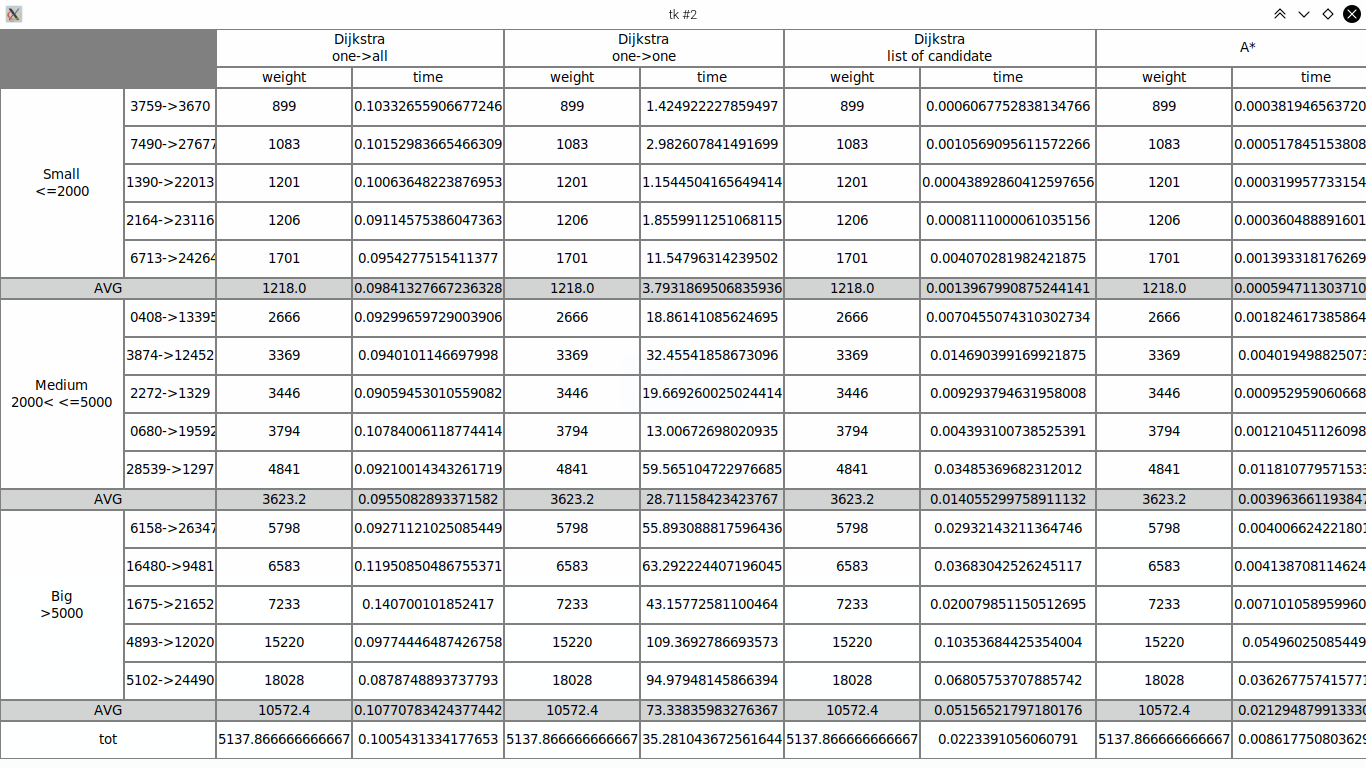
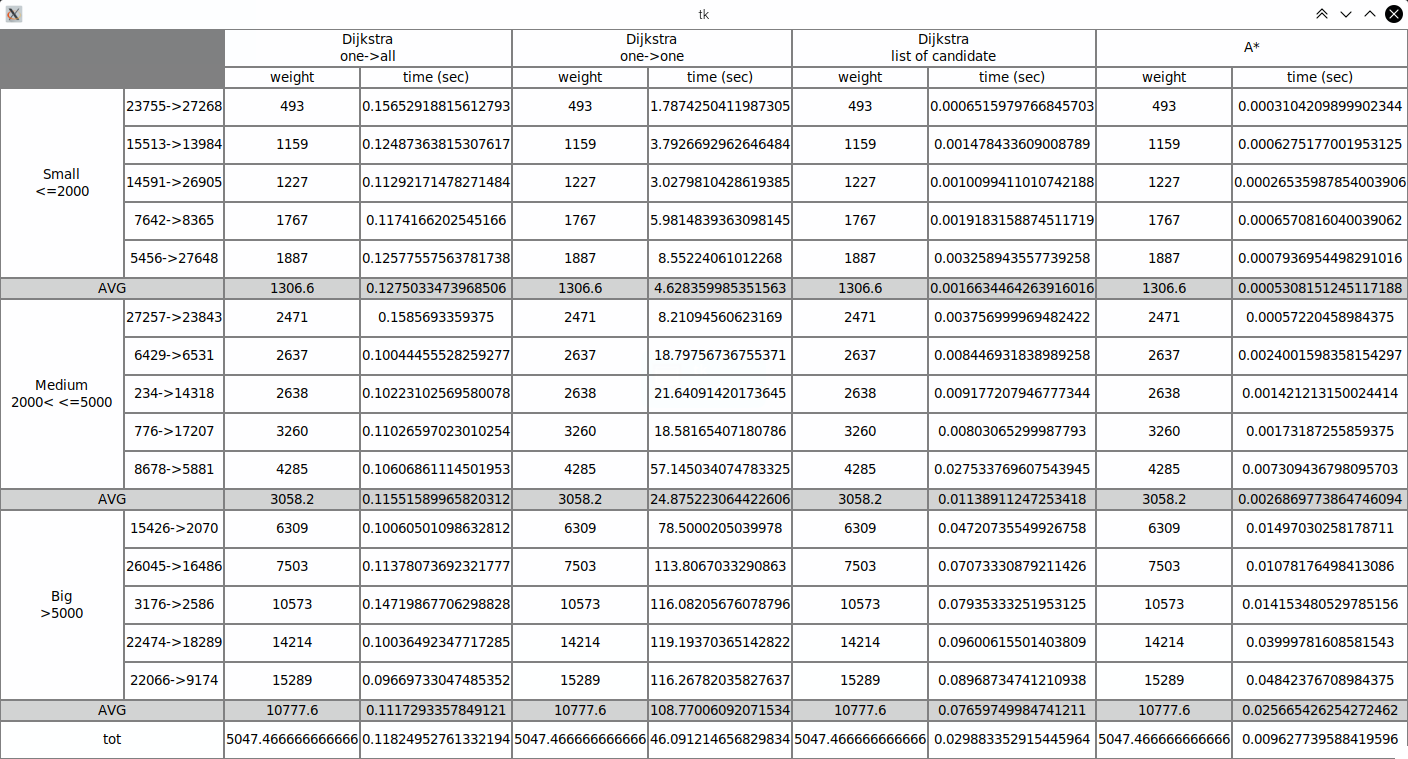
Debuggin and labelSettingAlgorithm impl

diff --git a/testing.py b/testing.py
@@ -34,7 +34,7 @@ debugger(graph[8620], 0)
 #default = 2000->2689
 #anomaly [14729, 14740] and [20023, 20050] and [17510, 17537] and so on
 source = graph[2000]
-target = graph[14729]
+target = graph[2229]
 
 
 """++++++++++++++++++++++++++++++++++++++++++++++++
@@ -44,7 +44,7 @@ print("*"*40, "ONE TO ALL", "*"*40)
 initSingleNode(graph, source)
 
 start = time.time()
-dijkstraOneToAll(graph, source)
+dijkstraOneToAll(source)
 end = time.time()
 
 print("time:", end-start)
@@ -70,27 +70,23 @@ print(*dbgList, sep="->")
 print("*"*40, "ONE TO ONE", "*"*40)
 initSingleNode(graph, source)
 
-print(target.visited)
-
 start = time.time()
-dijkstraOneToOne(graph, source, target)
+# dijkstraOneToOne(graph, source, target)
 end = time.time()
 
-print(target.visited)
+# print("time:", end-start)
+# print("from",source.index, "to", target.index, "the weight of the path is:", target.minWeight)
 
-print("time:", end-start)
-print("from",source.index, "to", target.index, "the weight of the path is:", target.minWeight)
-
-dbgList = []
-graphList = []
-pointer = target
-while pointer != source :
-    dbgList.append(pointer.index)
-    graphList.append(pointer)
-    pointer = pointer.predecessor
-dbgList.append(target.index)
-dbgList = reversed(dbgList)
-print(*dbgList, sep="->")
+# dbgList = []
+# graphList = []
+# pointer = target
+# while pointer != source :
+#     dbgList.append(pointer.index)
+#     graphList.append(pointer)
+#     pointer = pointer.predecessor
+# dbgList.append(target.index)
+# dbgList = reversed(dbgList)
+# print(*dbgList, sep="->")
 
 
 
@@ -104,7 +100,7 @@ tmp_list= []
 
 for n in range (0, 1):
     start = time.time()
-    dijkstraListOfCandidate(graph, source, target)
+    dijkstraListOfCandidate(source, target)
     end = time.time()
     tmp_list.append(end-start)
 print("AVGtime:", sum(tmp_list) / len(tmp_list))
@@ -138,7 +134,7 @@ tmp_list = []
 
 for n in range (0, 1):
     start = time.time()
-    a_star(graph, source, target)
+    a_star(source, target)
     end = time.time()
     tmp_list.append(end-start)
 print("AVGtime:", sum(tmp_list) / len(tmp_list))
@@ -169,18 +165,6 @@ from bicriteriaDijkstra import dijkstraBiCrit
 
 print("*"*40, "BICRITERIA DIJKSTRA", "*"*40)
 
-# WORKING SOLUTION
-# tmp_list= []
-# alpha = 0
-# while alpha <= 1 :
-#     initSingleNode(graph, source)
-#     start = time.time()
-#     dijkstraBiCrit(graph, source, target, alpha)
-#     end = time.time()
-#     tmp_list.append(end-start)
-#     print("from {0.index} to {1.index} the distance is {1.distance} and the danger is {1.danger} -- \u03B1 = {2}".format(source, target, alpha))
-#     alpha = round((alpha+0.05), 2)
-# print("AVGtime:", sum(tmp_list) / len(tmp_list))
 
 
 #MOST ACCURATE TESTING SOLUTION
@@ -188,6 +172,7 @@ print("*"*40, "BICRITERIA DIJKSTRA", "*"*40)
 Any time is found a different path (distance or danger), the value of α is halve
 else the value of α increase by an "increaseVal"
 """
+#TODO: make it a binary research: so try α = 0, then α = 1, then α = 0.5, if 0.5 is != from α = 0, try also α = 0.25 and so on and so on
 listDistDang = []
 tmp_list = []
 counter = 0
@@ -197,7 +182,7 @@ increaseVal = 0.02
 while alpha <=1 :
     initSingleNode(graph, source)
     start = time.time()
-    dijkstraBiCrit(graph, source, target, alpha)
+    dijkstraBiCrit(source, target, alpha)
     end = time.time()
     tmp_list.append(end-start)
 

diff --git a/labelSettingAlgorithm.py b/labelSettingAlgorithm.py
@@ -1,0 +1,67 @@
+from PriorityQueue import PriorityQueue
+
+def labelSettingAlgorithm(source, target) :
+    """
+    label = (dist, danger, owner, predecessor)
+              [0]    [1]    [2]       [3]
+    Step 0 :
+        create first label (0, 0, source, null)
+        and put it in the labelSet (a priorityQueue)
+    Step 1 :
+        if labelSet.empty() -> step 4
+        else select the label w/ the less distance and calc the label of the neighbors
+        NO -> (if the current label == target -> step 4)
+    Step 2 :
+        foreach neighbor of the current label calc
+            What to do when i found a new label for a node : - 3 possibility
+                1st - new label IS DOMINATED by one already existence (in the node.labelList) -> delete new label
+                2nd - new label DOMINATE one or more already existence ( " " ) -> delete old label, add new label
+                3rd - new label ISN'T DOMINATED AND CAN'T DOMINATE any other node -> add new label
+    Step 3 :
+        return to Step 1
+    Step 4:
+        End
+    """
+    labelQueue = PriorityQueue()
+    sourceLabel = (0, 0, source, None)
+    labelQueue.put(sourceLabel, sourceLabel[0])
+    ending = False  # become True when a node is equal to the target
+    while not labelQueue.empty() :
+        actualLabel = labelQueue.getMin()
+        distSoFar = actualLabel[0]
+        dangSoFar = actualLabel[1]
+        actualNode = actualLabel[2]
+
+        if target == actualNode : # if is considered a node equal to target the loop will restarted
+            ending = True
+            continue
+        
+        for nextNode, weight in actualNode.neighbors :
+            distance, danger = weight
+            newLabel = (distSoFar + distance, dangSoFar + danger, nextNode, actualNode) # creating of a new label
+            useLabel = True
+
+            if ending :     # if ending is True (a label has reached the target), check if the current label is dominated
+                restartWhile = False
+                for label in target.labelList : 
+                    if not __labelDoom(newLabel, label, target.labelList) : # if the actual label is dominated the while loop will restart
+                        restartWhile = True
+                        break
+                if restartWhile :
+                    break
+
+            for label in nextNode.labelList :
+                if not __labelDoom(newLabel, label, nextNode.labelList) :
+                    useLabel = False
+                    break # if a value is useless (1st case) the loop - label in labelList - is interrupt
+            if useLabel :
+                nextNode.labelList.append(newLabel)
+                labelQueue.put(newLabel, newLabel[0])
+
+
+def __labelDoom(newLabel, oldLabel, labelsList) :
+    if newLabel[0] > oldLabel[0] and newLabel[1] > oldLabel[1] :    # 1st case, this label is useless
+        return False
+    elif newLabel[0] < oldLabel[0] and newLabel[1] < oldLabel[1] :  # 2nd case, this label dominate a label
+        labelsList.remove(oldLabel)
+    return True                                                     # 3rd case, this label can't/isn't dominate/d

diff --git a/summaryTable.py b/summaryTable.py
@@ -23,30 +23,6 @@ class SimpleTable(tk.Frame):
         rowSpan = 5
         colSpan = 2
 
-# TODO: remove v
-#valueList:
-#{(start, target) : [(w, t), (w, t), (w, t), (w, t)]}
-#                     o->a    o->o     loc     a*
-        # a, b = 10, 20
-        # weight, time = 200, 2
-        # listOfResult = {}
-        # listOfResult.update({(a, b) : [(weight, time), (weight, time), (weight, time), (weight, time)]})
-
-        # for x in range(0, 13) :
-        #     a = a + 1
-        #     b = b + 1
-        #     weight = weight + 600
-        #     time = weight/1000
-        #     listOfResult.update({(a, b) : [(weight, time), (weight, time), (weight, time), (weight, time)]})
-        
-        # a = a + 1
-        # b = b + 1
-        # weight = 100
-        # time = weight/1000
-        # listOfResult.update({(a, b) : [(weight, time), (weight, time), (weight, time), (weight, time)]})
-
-        # print("list of resu:", listOfResult)
-# TODO: remove ^
         # use black background so it "peeks through" to 
         # form grid lines
         tk.Frame.__init__(self, parent, background="grey")
@@ -121,7 +97,7 @@ class SimpleTable(tk.Frame):
         # row with "weight and time" under the name of the algorithm
         for counter in range(1, column, 2) :
             weightLabel = tk.Label(self, text="weight", borderwidth=0, width=smallWidth, height=stdHeight, bg=stdBgColor)
-            timeLabel = tk.Label(self, text="time", borderwidth=0, width=smallWidth, height=stdHeight, bg=stdBgColor)
+            timeLabel = tk.Label(self, text="time (sec)", borderwidth=0, width=smallWidth, height=stdHeight, bg=stdBgColor)
             weightLabel.grid(row=1, column=counter + 1, sticky="nsew", padx=1, pady=1)
             timeLabel.grid(row=1, column=(counter + 2), sticky="nsew", padx=1, pady=1)
 
@@ -196,8 +172,3 @@ class SimpleTable(tk.Frame):
         Calculate the average value of a list
         """
         return sum(list)/len(list)
-
-
-# if __name__ == "__main__":
-#     app = SummaryTable()
-#     app.mainloop()

diff --git a/bicriteriaTesting.py b/bicriteriaTesting.py
@@ -1,0 +1,27 @@
+from node import Node
+from setup import graphBuilder
+import time
+import pandas as pds
+
+from utilities import initSingleNode
+from labelSettingAlgorithm import labelSettingAlgorithm
+
+dataN = pds.read_csv('graphs/paris_noeuds.csv', sep='\t', header=None)
+dataA = pds.read_csv('graphs/paris_arcs.csv', sep='\t', header=None)
+
+
+graph = graphBuilder(dataN.values.tolist(), dataA.values.tolist())
+source = graph[2000]
+target = graph[2229]
+
+print("*"*40, "LABEL SETTING ALGORITHM", "*"*40)
+initSingleNode(graph, source)
+
+start = time.time()
+labelSettingAlgorithm(source, target)
+end = time.time()
+
+print("time:", end-start)
+print("all path to target", target.index, ":")
+for label in target.labelList :
+    print("dist:", label[0], "\ndang:", label[1], "\npredecessor:",label[3].index, "\n============")

diff --git a/node.py b/node.py
@@ -1,7 +1,5 @@
 import sys
-
 from utilities import wgsToEcef
-
 
 class Node(object):
     """
@@ -22,6 +20,9 @@ class Node(object):
     || Bicriteria uses
     distance : the distance from the source
     danger : total danger from the source
+
+    || Label setting algorithm uses
+    labelList : a list of all labels (not dominated), used to store information duringi the building of the paths [(dist, danger, owner, predecessor), (di, da, ow, pr), .... , (...)]
     """
 
     def __init__(self, index, longitude, latitude):
@@ -39,6 +40,8 @@ class Node(object):
 
         self.distance = 0
         self.danger = 0
+
+        self.labelList = []
    
     def resetValue(self) :
         """

diff --git a/dijkstra.py b/dijkstra.py
@@ -1,6 +1,8 @@
 from PriorityQueue import PriorityQueue
 
-def dijkstraOneToAll(graph, source):
+#TODO: remove graph in the inputs, is useless
+
+def dijkstraOneToAll(source):
     nodeSet = PriorityQueue()
     nodeSet.put(source, 0)
     # counter = 0
@@ -39,7 +41,7 @@ def dijkstraOneToOne(graph, source, target):
         print("ERROR! impossible to reach the target")
 
 
-def dijkstraListOfCandidate(graph, source, target):
+def dijkstraListOfCandidate(source, target):
     listOfCand = PriorityQueue()
     # counter = 0
     listOfCand.put(source, 0)

diff --git a/testPlotter.py b/testPlotter.py
@@ -1,4 +1,5 @@
 #from mpl_toolkits.basemap import Basemap
+#TODO: DELETE THIS
 import matplotlib.pyplot as plt
 import numpy as np
 import pandas as pds
@@ -8,7 +9,7 @@ nodes = pds.read_csv('graphs/paris_noeuds.csv', sep='\t', header=None)
 
 # print(nodes[0].values.tolist())
 # print(arches.loc[(arches[0] == 2000) & (arches[1] == 2040)])
-print(arches.loc[arches[0] == 19907].values)
+print(arches.loc[arches[0] == 2683].values)
 
 # save = arches.values.tolist()
 # # print(save)

diff --git a/a_star.py b/a_star.py
@@ -5,11 +5,13 @@ In fact this algort
 
 ***
 Guarda nell'agenda, quello da scrivere è perfettamente riportato
+
+TODO: remove graphs in the inouts, is useless
 """
 import math
 from PriorityQueue import PriorityQueue
 
-def a_star(graph, source, target) :
+def a_star(source, target) :
     listOfCand = PriorityQueue()
     listOfCand.put(source, 0)
 

diff --git a/summaryMonocriteriaTesting.py b/summaryMonocriteriaTesting.py
@@ -30,7 +30,7 @@ def valuesCalculator(graph, source, target) :
     start = time.time()
     dijkstraOneToOne(graph, source, target)     #one to one
     end = time.time()
-    dist = target.minWeight  # provisory, obviously
+    dist = target.minWeight 
     times = end - start
     resList.append((dist, times))
     

diff --git a/bicriteriaDijkstra.py b/bicriteriaDijkstra.py
@@ -1,6 +1,6 @@
 from PriorityQueue import PriorityQueue
 
-def dijkstraBiCrit(graph, source, target, alpha) :
+def dijkstraBiCrit(source, target, alpha) :
     """
     With the bicriteria algorithm I decided to use the attribute "distance"
     of the node, because "minWeight" is used has comparator.
